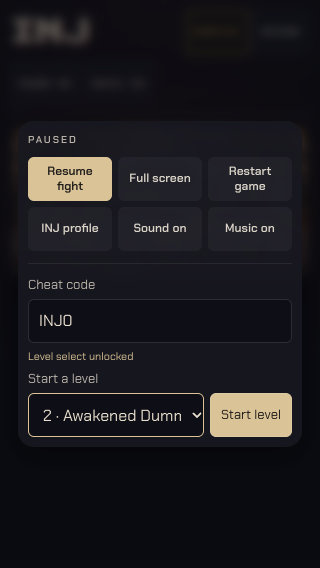
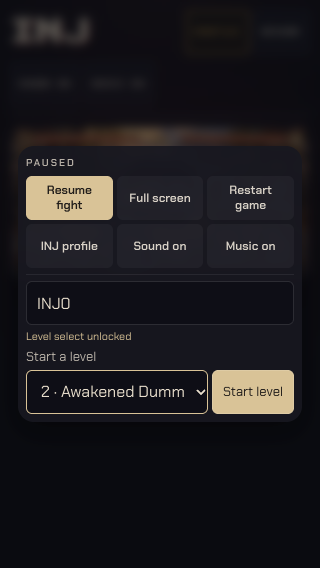
Compact pause menu and remove visible cheat field label

diff --git a/styles/layout.css b/styles/layout.css
@@ -81,13 +81,13 @@
   width: min(360px, calc(100% - 12px));
   max-height: 100%;
   overflow: auto;
-  padding: 10px;
+  padding: 8px;
   border-radius: 16px;
   background: #17171fee;
   box-shadow: 0 10px 28px #0006;
 }
 .pause-panel h2 {
-  margin: 0 0 8px;
+  margin: 0 0 4px;
   font:
     600 10px/18px 'Chakra Petch',
     sans-serif;
@@ -98,7 +98,7 @@
 .pause-grid {
   display: grid;
   grid-template-columns: repeat(3, minmax(0, 1fr));
-  gap: 6px;
+  gap: 4px;
 }
 .pause-grid button {
   min-width: 0;
@@ -136,15 +136,15 @@
   color: #8a8786;
 }
 .cheat-controls {
-  margin-top: 12px;
-  padding-top: 12px;
+  margin-top: 6px;
+  padding-top: 6px;
   border-top: 1px solid #ffffff12;
   font: 500 13px/1.4 'Chakra Petch', sans-serif;
   color: #b9b2a8;
 }
 .cheat-controls label {
   display: block;
-  margin-bottom: 5px;
+  margin-bottom: 3px;
 }
 .cheat-controls input,
 .cheat-controls select,
@@ -172,11 +172,11 @@
   color: #d9c397;
 }
 .cheat-controls small:not(:empty) {
-  margin: 6px 0;
+  margin: 4px 0;
 }
 .cheat-level-row {
   display: flex;
-  gap: 6px;
+  gap: 4px;
 }
 .cheat-level-row select {
   flex: 1;

diff --git a/index.html b/index.html
@@ -163,10 +163,9 @@
               <button data-audio="music" aria-pressed="true">Music on</button>
             </div>
             <form id="cheatForm" class="cheat-controls" autocomplete="off">
-              <label for="cheatCode">Cheat code</label>
               <input id="cheatCode" name="cheat" type="text" placeholder="Enter code"
                 maxlength="16" autocapitalize="characters" spellcheck="false"
-                aria-describedby="cheatStatus" />
+                aria-label="Cheat code" aria-describedby="cheatStatus" />
               <small id="cheatStatus" role="status"></small>
               <div id="cheatLevels" hidden>
                 <label for="cheatLevel">Start a level</label>

diff --git a/inj.md b/inj.md
@@ -23,7 +23,7 @@ On iPhone, Safari Share → Add to Home Screen → enable Open as Web App if sho
 - **Phone controls:** independent captured pointers for each thumb. The left joystick moves/crouches; its upward 90° wedge from 10:30 to 1:30 jumps, including diagonal jumps. Shallow upward tilts outside that wedge stay grounded. Touch-down starts eligible attacks immediately; busy fighters retain a 220 ms buffer. Larger round Punch/Kick buttons sit below a smaller icon-and-label row for Shadow, Upper and Guard, with Blink below at a fixed position. Nitro uses a fixed slot that appears only at full meter and hides immediately when spent; other buttons never move. Every touch target remains at least 44 px.
 - **Display:** dynamic aspect ratio with an 18:9 desktop/portrait default and landscape fit. World height stays 225; width changes without stretching fighters or changing combat scale. Fighters occupy about half the arena height. Resize preserves health, attacks and spacing.
 - **Quiet menu:** one borderless three-dot trigger at the arena's bottom edge. The two-row panel contains Resume, Full screen, Restart game, Profile, Sound and Music. Restart immediately returns to round one with full health and cleared combat state, preserving fullscreen and audio settings. No hand/focus halos or pulsing utility buttons.
-- **Cheats:** open the three-dot pause menu and type **INJ0** in Cheat code. A level dropdown and **Start level** button appear. Choose any of the five stages; starting resets health, resources, enemies and effects through the normal round flow, including Goldline’s car and the Colossus enlargement. Unlock lasts until page reload. Typing/selecting never triggers combat or mute; Escape resumes. Restart still returns to round one.
+- **Cheats:** open the three-dot pause menu and type **INJ0** in the compact Enter code box. A level dropdown and **Start level** button appear. Choose any of the five stages; starting resets health, resources, enemies and effects through the normal round flow, including Goldline’s car and the Colossus enlargement. Unlock lasts until page reload. Typing/selecting never triggers combat or mute; Escape resumes. Restart still returns to round one.
 - **Immersive play:** native fullscreen, expanded view and Home Screen app mode suppress browser double-tap/pinch gestures, callouts and page movement while preserving gameplay multitouch. Long dialogs can scroll vertically. Browser gestures return after leaving immersive play. iOS-owned system gestures cannot be removed by the game.
 - **Rounds:** round one is gentle. Round two is the awakened Dummy, targeting roughly **60% player losses**. It favors evasions, one- or two-hit bursts and punishable pauses: 750–1150 ms after bursts, with an initial 350 ms opening; dodges expose a 300 ms opening. Damage, armor, pursuit and reactions are softer than the earlier 85% build. Outcomes are resolved by combat, never selected from a probability.
 - **Victory:** an INJ win gets a 1.1-second knockout beat, then a dedicated arena celebration with her authored victory pose, a restrained close-up, gold flecks, a short fanfare, and the defeated opponent. The scene shows actual remaining health and the round’s best hit chain. It waits for **Next round** or Enter/Space. Combat, the timer and damage stop; pause freezes the celebration and Restart returns to round one. Only defeating the robot completes the Goldline encounter; the car still transforms. Losses keep MiMi’s dialogue, then retry the same level with fresh health and resources. Only wins advance. Losing to the robot retries Goldline from its car; losing to tiny Teddy retries full-size Teddy.

diff --git a/artifacts/cheats-and-tests-review.md b/artifacts/cheats-and-tests-review.md
@@ -26,7 +26,7 @@ Full review scope: new cheat input, status, native level selector/start action a
 | --- | --- | --- | --- | --- |
 | MEDIUM | `js/controls.js:232` | Dialog trap considered only buttons; global shortcuts also received editable-field keys | Visible enabled inputs/selects join the focus loop; editing bypasses combat/mute handlers while Escape resumes | Native keyboard behavior and a complete focus trap keep entry usable |
 | MEDIUM | `styles/layout.css:66` | Arena-sized pause area would make added fields scroll inside a very short portrait canvas | Viewport overlay with a bounded scrollable panel | All controls stay reachable on phones |
-| LOW | `styles/layout.css:138`, `index.html:166` | No code entry, unlock feedback or stage controls | Labeled 16 px input, live status, hidden native selector, separate 44 px Start action | Clear state feedback and minimum hit areas; selecting does not unexpectedly navigate |
+| LOW | `styles/layout.css:138`, `index.html:166` | No code entry, unlock feedback or stage controls | Accessible-name 16 px input with placeholder, live status, hidden native selector, separate 44 px Start action | Clear state feedback and minimum hit areas; selecting does not unexpectedly navigate |
 
 | Location | Considered | Rejected because |
 | --- | --- | --- |
@@ -34,3 +34,9 @@ Full review scope: new cheat input, status, native level selector/start action a
 | Unlock feedback | Animated expansion or celebration | Instant field/status changes communicate this repeatable utility action without motion |
 
 Verification: real typing, Enter, Tab/Shift+Tab, native selector arrows, Escape, all five stage starts, close/reopen, restart and reload; fresh resources and cleared boss pools; 320/390/844 geometry and selected screenshots. [320 px](cheat-menu-320.png), [390 px](cheat-menu-390.png), [landscape](cheat-menu-844.png) were visually inspected. **Approve**: no actionable findings remain in this scope. Not verified: physical iPhone/Safari/onscreen-keyboard behavior, full-suite/balance/audio results.
+
+## Compact-menu follow-up
+
+Removed the visible Cheat code label while preserving its accessible name. Reduced panel padding (10→8 px), grid gaps (6→4 px), cheat-section spacing (12→6 px), heading/label/status spacing and selector-row gap. All touch targets stay at least 44 px. The 320 px updated capture was visually inspected; geometry also passes at 390/844 px. `node tests/browser.cjs --suite menus --artifacts` passed structure and 40 focused checks in 10.47 seconds. Full suite skipped.
+
+Quick review: typography and surfaces clear; no new animation or icons, performance unchanged. Considered shrinking the buttons further, rejected to preserve touch targets. Approve; physical iPhone/Safari keyboard behavior remains unverified.

diff --git a/docs/architecture.md b/docs/architecture.md
@@ -97,9 +97,9 @@ The renderer reuses the original Teddy atlas for neutral/walk/stomp/ovation and 
 
 ## Pause cheats and native editing
 
-`index.html` owns the labeled cheat input, live status, hidden five-option selector and Start level button. `menus.js` owns private session-only unlock state. Typing `INJ0` (case-insensitive, trimmed) reveals the selector immediately; submitting an unknown code only shows feedback. Start requires unlocked state and an open pause menu, validates a level in 1–5, sets the ladder to level minus one, and uses `resetRound()`/`resumeGame()` so all actors, pools, resources, timer and cutscenes follow normal initialization. It does not skip the Goldline car or boss reveal. Reload relocks; normal restart remains round one.
+`index.html` owns the cheat input (accessible name, placeholder, no visible label), live status, hidden five-option selector and Start level button. `menus.js` owns private session-only unlock state. Typing `INJ0` (case-insensitive, trimmed) reveals the selector immediately; submitting an unknown code only shows feedback. Start requires unlocked state and an open pause menu, validates a level in 1–5, sets the ladder to level minus one, and uses `resetRound()`/`resumeGame()` so all actors, pools, resources, timer and cutscenes follow normal initialization. It does not skip the Goldline car or boss reveal. Reload relocks; normal restart remains round one.
 
-`controls.js` traps every visible enabled button/input/select inside the active dialog. Native editable controls bypass combat/mute/Enter handlers; Escape retains pause/resume behavior. The pause overlay now uses viewport framing, a scrollable panel and 44 px native controls so the selector fits beyond the short portrait arena. Styling stays in `styles/layout.css`; there is no separate UI system or animation.
+`controls.js` traps every visible enabled button/input/select inside the active dialog. Native editable controls bypass combat/mute/Enter handlers; Escape retains pause/resume behavior. The pause overlay now uses viewport framing, a scrollable panel and 44 px native controls so the selector fits beyond the short portrait arena. Compact panel padding and row/section gaps preserve 44 px touch targets. Styling stays in `styles/layout.css`; there is no separate UI system or animation.
 
 ## Loss retry and stage boundary
 
